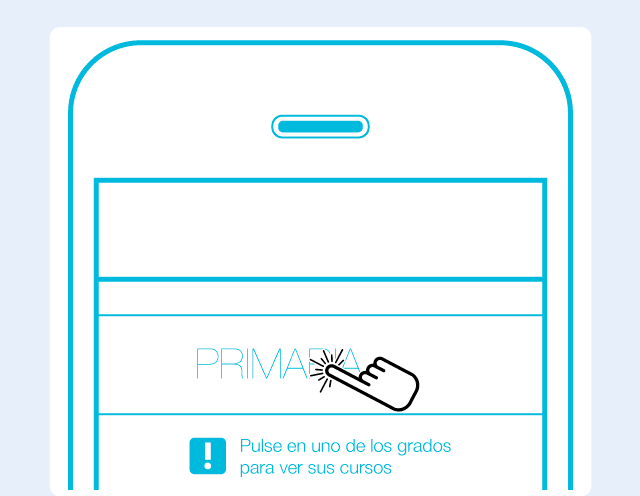
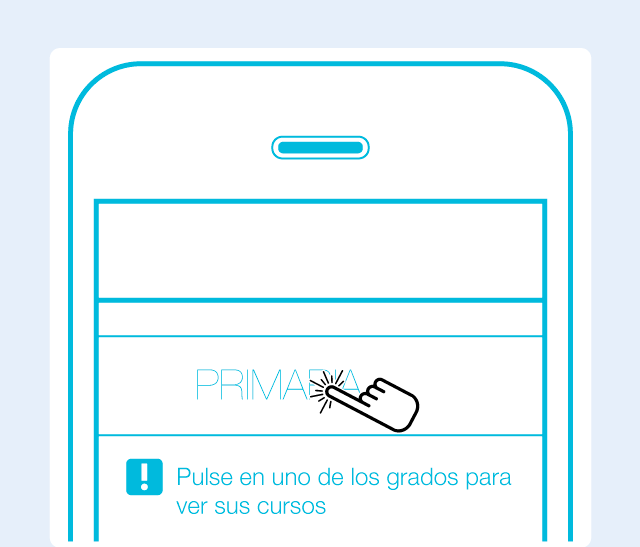
Cambios esteticos:
-Ajuste fino de las imagenes de cabecera y pie de la pantalla de grados y de la de cursos

diff --git a/Resources/alloy/controllers/WinGrupos.js b/Resources/alloy/controllers/WinGrupos.js
@@ -40,6 +40,7 @@ function Controller() {
     $.__views.winGrados.add($.__views.TablaGrados);
     $.__views.__alloyId112 = Ti.UI.createImageView({
         image: "library/images/iphone/helpScreen/01HeaderGrados.png",
+        height: "70dp",
         id: "__alloyId112"
     });
     $.__views.TablaGrados.headerView = $.__views.__alloyId112;

diff --git a/Resources/alloy/controllers/WinCursos.js b/Resources/alloy/controllers/WinCursos.js
@@ -63,6 +63,7 @@ function Controller() {
     $.__views.WinCursos.add($.__views.TablaCursos);
     $.__views.__alloyId93 = Ti.UI.createImageView({
         image: "library/images/iphone/helpScreen/02HeaderCursos.png",
+        height: "70dp",
         id: "__alloyId93"
     });
     $.__views.TablaCursos.headerView = $.__views.__alloyId93;
